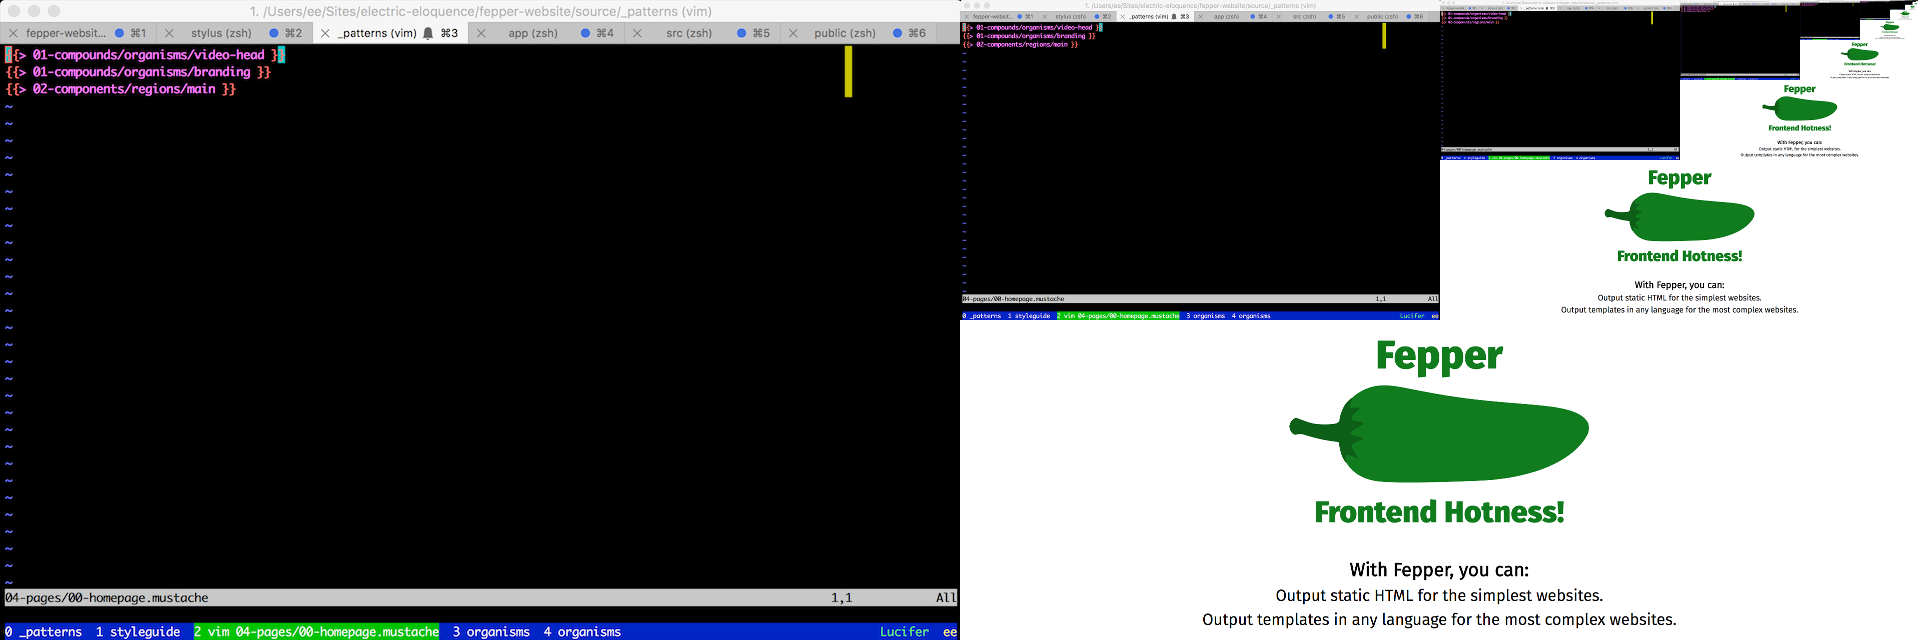
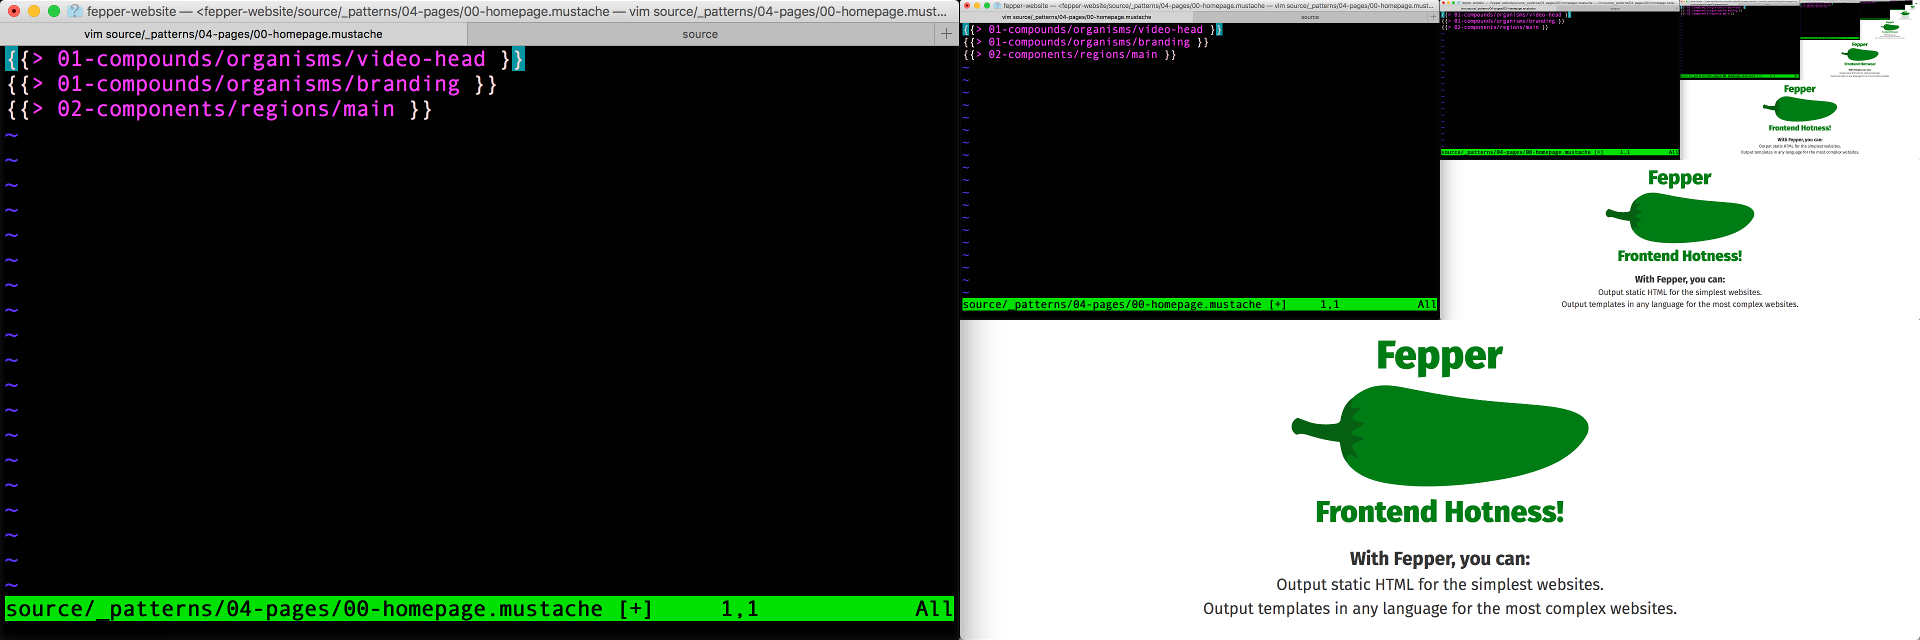
styles and asset for video-bg

diff --git a/public/_styles/bld/style.css b/public/_styles/bld/style.css
@@ -159,6 +159,8 @@ p {
   overflow: hidden;
 }
 .video-head {
+  background: url("../../_assets/src/video-bg.png") no-repeat 0 0;
+  background-size: contain;
   width: 100%;
   height: 33.334vw;
 }
@@ -263,7 +265,6 @@ html.es6-modules-enabled .main__content {
   left: 0;
   width: 100%;
 }
-html.es6-modules-enabled .main__content__slider {
-  opacity: 0;
-  transform: translateY(5rem);
+html.es6-modules-enabled .main__content__slid:first-child {
+  padding-top: 0.5rem;
 }

diff --git a/source/_styles/bld/style.css b/source/_styles/bld/style.css
@@ -159,6 +159,8 @@ p {
   overflow: hidden;
 }
 .video-head {
+  background: url("../../_assets/src/video-bg.png") no-repeat 0 0;
+  background-size: contain;
   width: 100%;
   height: 33.334vw;
 }
@@ -263,7 +265,6 @@ html.es6-modules-enabled .main__content {
   left: 0;
   width: 100%;
 }
-html.es6-modules-enabled .main__content__slider {
-  opacity: 0;
-  transform: translateY(5rem);
+html.es6-modules-enabled .main__content__slid:first-child {
+  padding-top: 0.5rem;
 }
